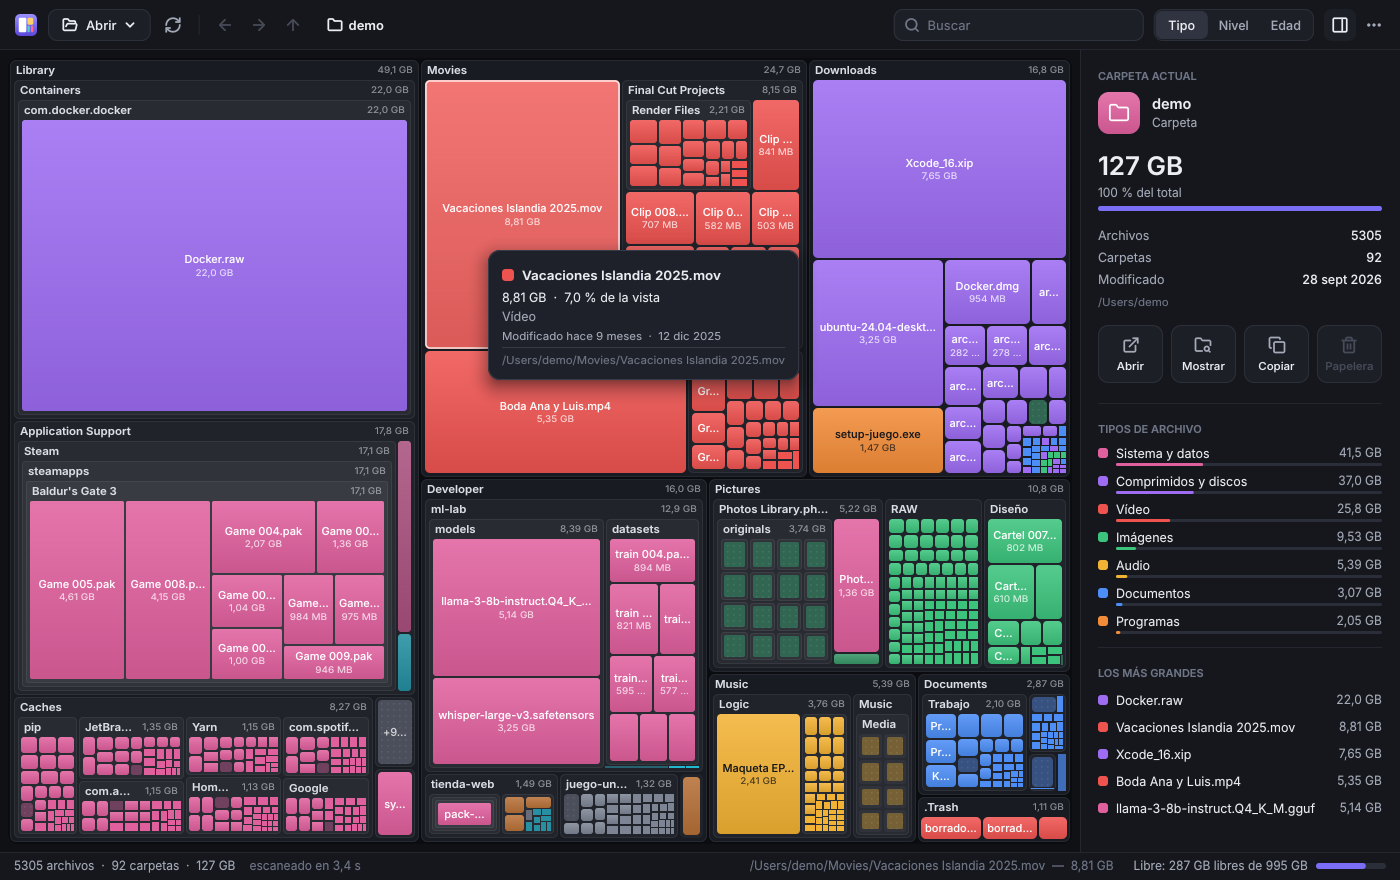
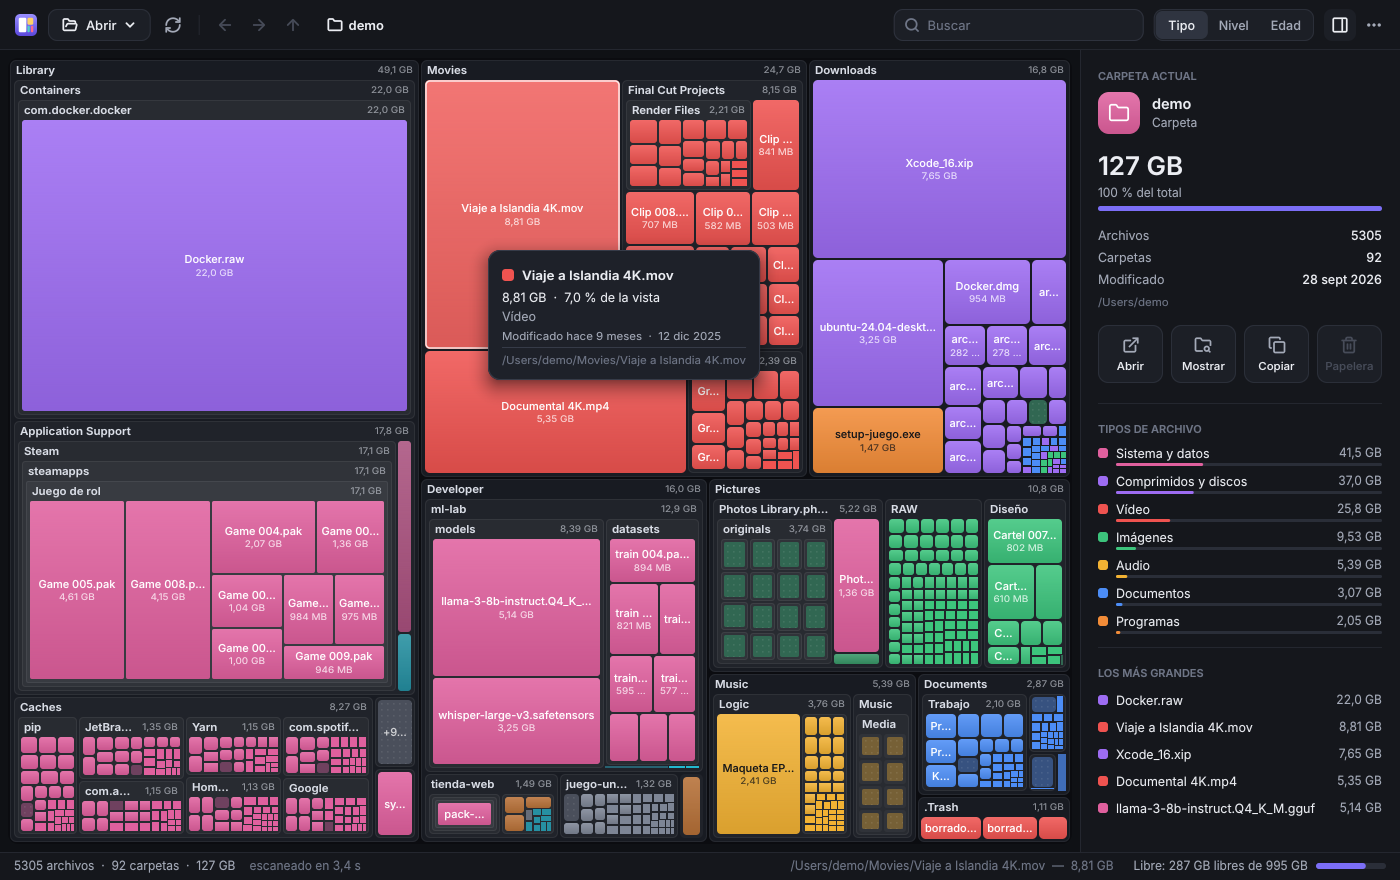
Neutral names in the demo data
The demo home folder used for screenshots no longer has personal names or real artists and games.

diff --git a/src/SpaceAnalyzer/Core/DemoTree.cs b/src/SpaceAnalyzer/Core/DemoTree.cs
@@ -23,8 +23,8 @@ public static class DemoTree
         var root = b.Root("/Users/demo");
 
         var movies = b.Dir(root, "Movies");
-        b.File(movies, "Vacaciones Islandia 2025.mov", 8_400 * MB, 290);
-        b.File(movies, "Boda Ana y Luis.mp4", 5_100 * MB, 700);
+        b.File(movies, "Viaje a Islandia 4K.mov", 8_400 * MB, 290);
+        b.File(movies, "Documental 4K.mp4", 5_100 * MB, 700);
         var fcp = b.Dir(movies, "Final Cut Projects");
         b.Files(fcp, "Clip", ".mov", 14, 180 * MB, 900 * MB, 120, 400);
         var render = b.Dir(fcp, "Render Files");
@@ -48,8 +48,8 @@ public static class DemoTree
 
         var music = b.Dir(root, "Music");
         var media = b.Dir(b.Dir(music, "Music"), "Media");
-        foreach (var artist in new[] { "Rosalía", "Daft Punk", "Bad Bunny", "Radiohead", "Vetusta Morla", "Queen", "Nathy Peluso", "Björk" })
-            b.Files(b.Dir(media, artist), "Pista", ".m4a", 24, 6 * MB, 14 * MB, 400, 3000);
+        foreach (var genre in new[] { "Rock", "Jazz", "Pop", "Clásica", "Electrónica", "Flamenco", "Indie", "Bandas sonoras" })
+            b.Files(b.Dir(media, genre), "Pista", ".m4a", 24, 6 * MB, 14 * MB, 400, 3000);
         var logic = b.Dir(music, "Logic");
         b.File(logic, "Maqueta EP.logicx", 2_300 * MB, 45);
         b.Files(b.Dir(logic, "Samples"), "sample", ".wav", 40, 12 * MB, 80 * MB, 45, 600);
@@ -102,7 +102,7 @@ public static class DemoTree
             b.Files(b.Dir(caches, name), "cache", ".db", 50, 100 * KB, 90 * MB, 0, 60);
         var support = b.Dir(lib, "Application Support");
         var steam = b.Dir(b.Dir(support, "Steam"), "steamapps");
-        b.Files(b.Dir(steam, "Baldur's Gate 3"), "Game", ".pak", 9, 900 * MB, 6_000 * MB, 300, 500);
+        b.Files(b.Dir(steam, "Juego de rol"), "Game", ".pak", 9, 900 * MB, 6_000 * MB, 300, 500);
         b.Files(b.Dir(support, "Slack"), "IndexedDB", ".ldb", 80, 1 * MB, 20 * MB, 0, 30);
         b.Files(b.Dir(support, "Code"), "workspaceStorage", ".json", 200, 1 * KB, 3 * MB, 0, 90);
         b.File(b.Dir(b.Dir(lib, "Containers"), "com.docker.docker"), "Docker.raw", 21_000 * MB, 1);
